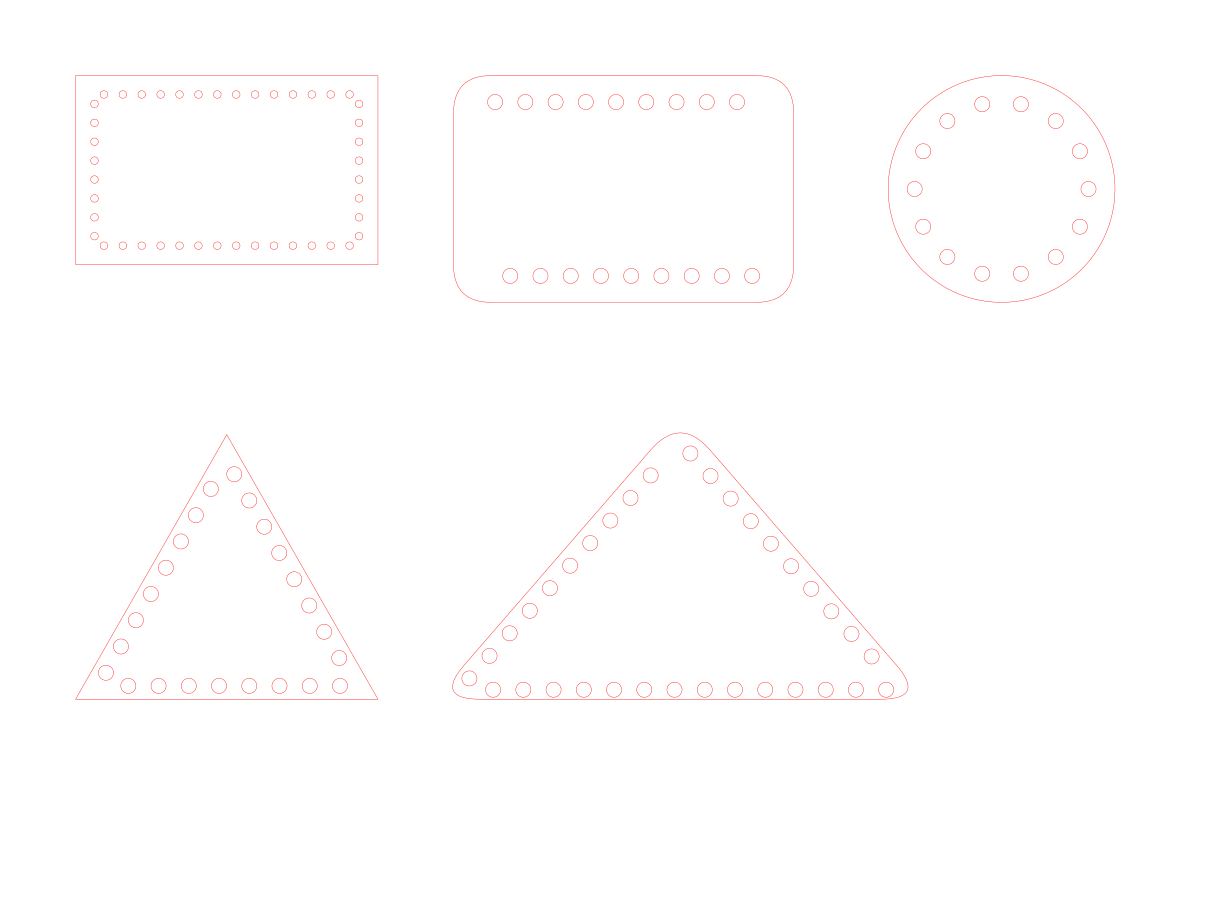
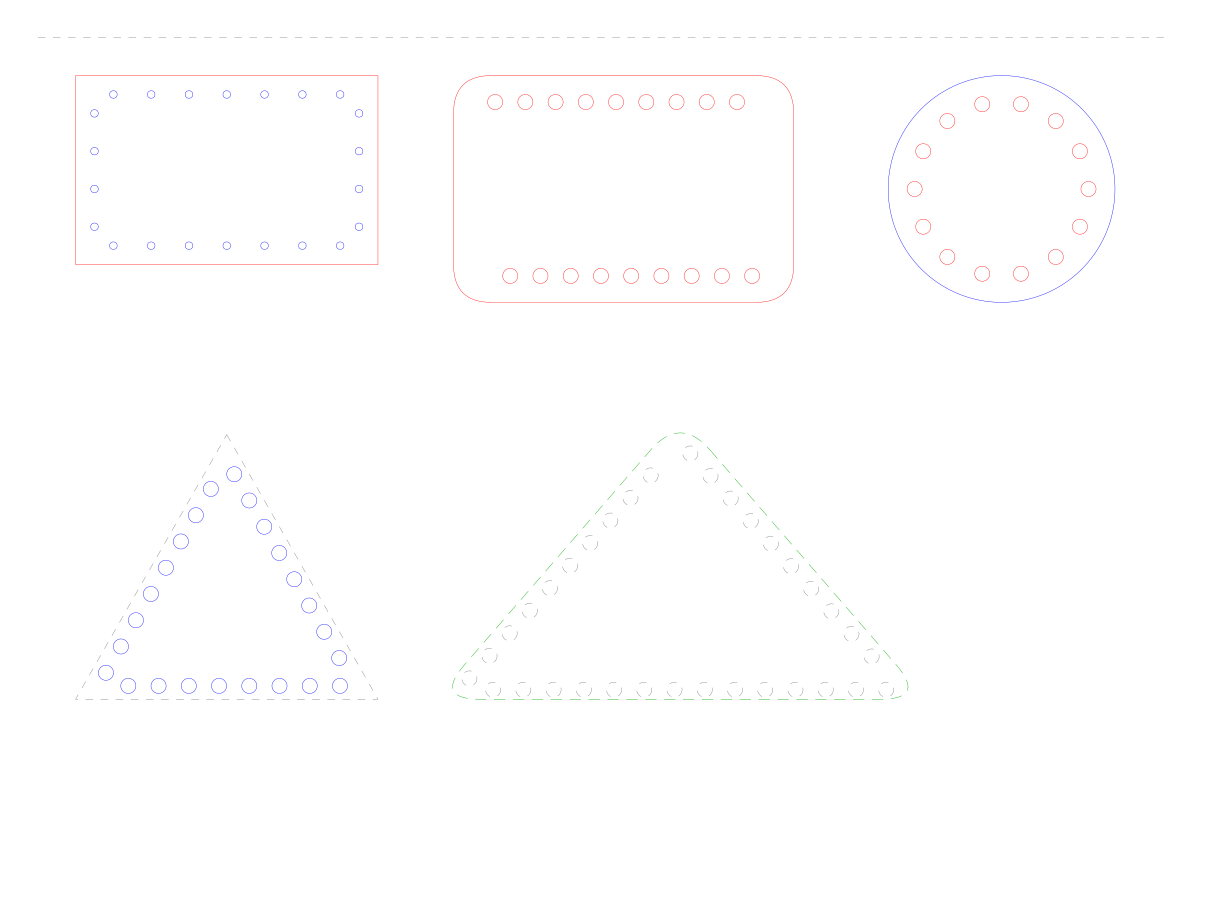
Enhance layer definitions and update example shapes
- Updated README to provide clearer descriptions for default layers: cut, stitch, crease, and guide.
- Modified example_shapes.py to assign shapes and holes to appropriate layers, improving organization and clarity.
- Updated example_shapes.svg to reflect changes in layer colors and styles, ensuring visual consistency with the new definitions.

diff --git a/example_shapes.py b/example_shapes.py
@@ -11,20 +11,20 @@ from laser_svg import (
 doc = SvgDocument(width_mm=320, height_mm=240)
 
 rect = Rectangle(20, 20, 80, 50)
-doc.add_shape(rect)
-doc.add_holes(rect, edges="all", spacing=5.0, hole_radius=1.0, inset=5.0)
+doc.add_shape(rect, layer="cut")
+doc.add_holes(rect, edges="all", spacing=10.0, hole_radius=1.0, inset=5.0, layer="stitch")
 
 rounded_rect = RoundedRectangle(120, 20, 90, 60, radius=10)
-doc.add_shape(rounded_rect)
-doc.add_holes(rounded_rect, edges=[0, 2], spacing=8.0, hole_radius=2.0, inset=7.0)
+doc.add_shape(rounded_rect, layer="cut")
+doc.add_holes(rounded_rect, edges=[0, 2], spacing=8.0, hole_radius=2.0, inset=7.0, layer="cut")
 
 circle = Circle(265, 50, 30)
-doc.add_shape(circle)
-doc.add_holes(circle, spacing=10.0, hole_radius=2.0, inset=7.0)
+doc.add_shape(circle, layer="stitch")
+doc.add_holes(circle, spacing=10.0, hole_radius=2.0, inset=7.0, layer="cut")
 
 triangle = Triangle.from_box(20, 115, 80, 70)
-doc.add_shape(triangle)
-doc.add_holes(triangle, edges=[0, 1, 2], spacing=8.0, hole_radius=2.0, inset=7.0)
+doc.add_shape(triangle, layer="guide")
+doc.add_holes(triangle, edges=[0, 1, 2], spacing=8.0, hole_radius=2.0, inset=7.0, layer="stitch")
 
 rounded_triangle = RoundedTriangle(
     Point(180, 110),
@@ -32,8 +32,10 @@ rounded_triangle = RoundedTriangle(
     Point(115, 185),
     radius=12,
 )
-doc.add_shape(rounded_triangle)
-doc.add_holes(rounded_triangle, edges="all", spacing=8.0, hole_radius=2.0, inset=7.0)
+doc.add_shape(rounded_triangle, layer="crease")
+doc.add_holes(rounded_triangle, edges="all", spacing=8.0, hole_radius=2.0, inset=7.0, layer="guide")
+
+doc.add_line(10, 10, 310, 10, layer="guide")
 
 doc.save("example_shapes.svg")
 doc.save_png("example_shapes.png", background_color="white")

diff --git a/README_pl.md b/README_pl.md
@@ -68,10 +68,10 @@ To zwiększa kompatybilność z rendererami, które słabo obsługują style kla
 
 Domyślne warstwy są zdefiniowane jako:
 
-- `cut` - czerwony, `#ff0000`, grubość `0.1`
-- `stitch` - niebieski, `#0000ff`, grubość `0.1`
-- `crease` - zielony, `#00aa00`, grubość `0.1`, kreskowanie `3 2`
-- `guide` - szary, `#777777`, grubość `0.1`, kreskowanie `2 2`
+- `cut` - warstwa cięcia, kolor czerwony, `#ff0000`, grubość `0.1`
+- `stitch` - warstwa szycia, kolor niebieski, `#0000ff`, grubość `0.1`
+- `crease` - warstwa bigowania / zgięcia, kolor zielony, `#00aa00`, grubość `0.1`, kreskowanie `3 2`
+- `guide` - warstwa pomocnicza / prowadząca, kolor szary, `#777777`, grubość `0.1`, kreskowanie `2 2`
 
 Każdy element dodany do dokumentu może być przypisany do jednej z tych warstw.
 
